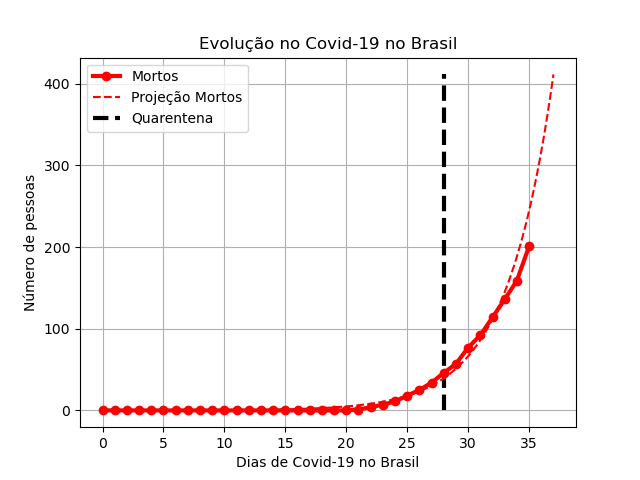
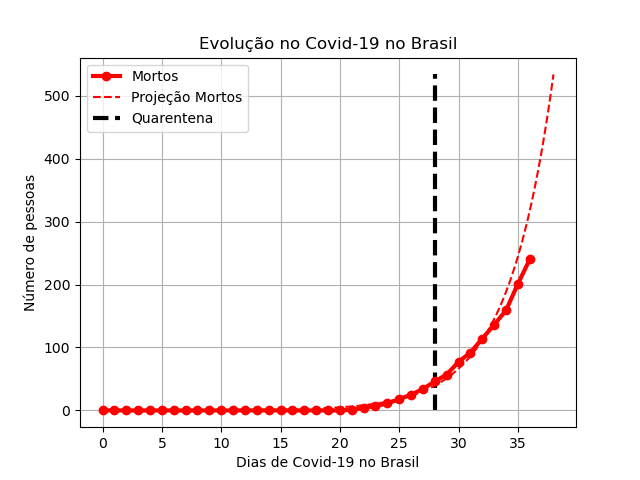
update covid

diff --git a/covid-19.html b/covid-19.html
@@ -102,7 +102,7 @@
     <div class="main">
         <h1> Acompanhe a evolução do Covid-19 no Brasil </h1>
 
-        <p>Atualização: 31/03/2020</p>
+        <p>Atualização: 01/04/2020</p>
         <p> A pandemia de coronavírus está evoluindo ao redor do mundo. No Brasil os casos estão aumentando a cada dia. Medidas de contenção estão sendo empregadas para evitar que o número de infectados aumente. Veja como está a evolução no gráfico a seguir.</p>
         
         <a class="aulaImg"><img class="aula" src="images/covid19.png"></a>
